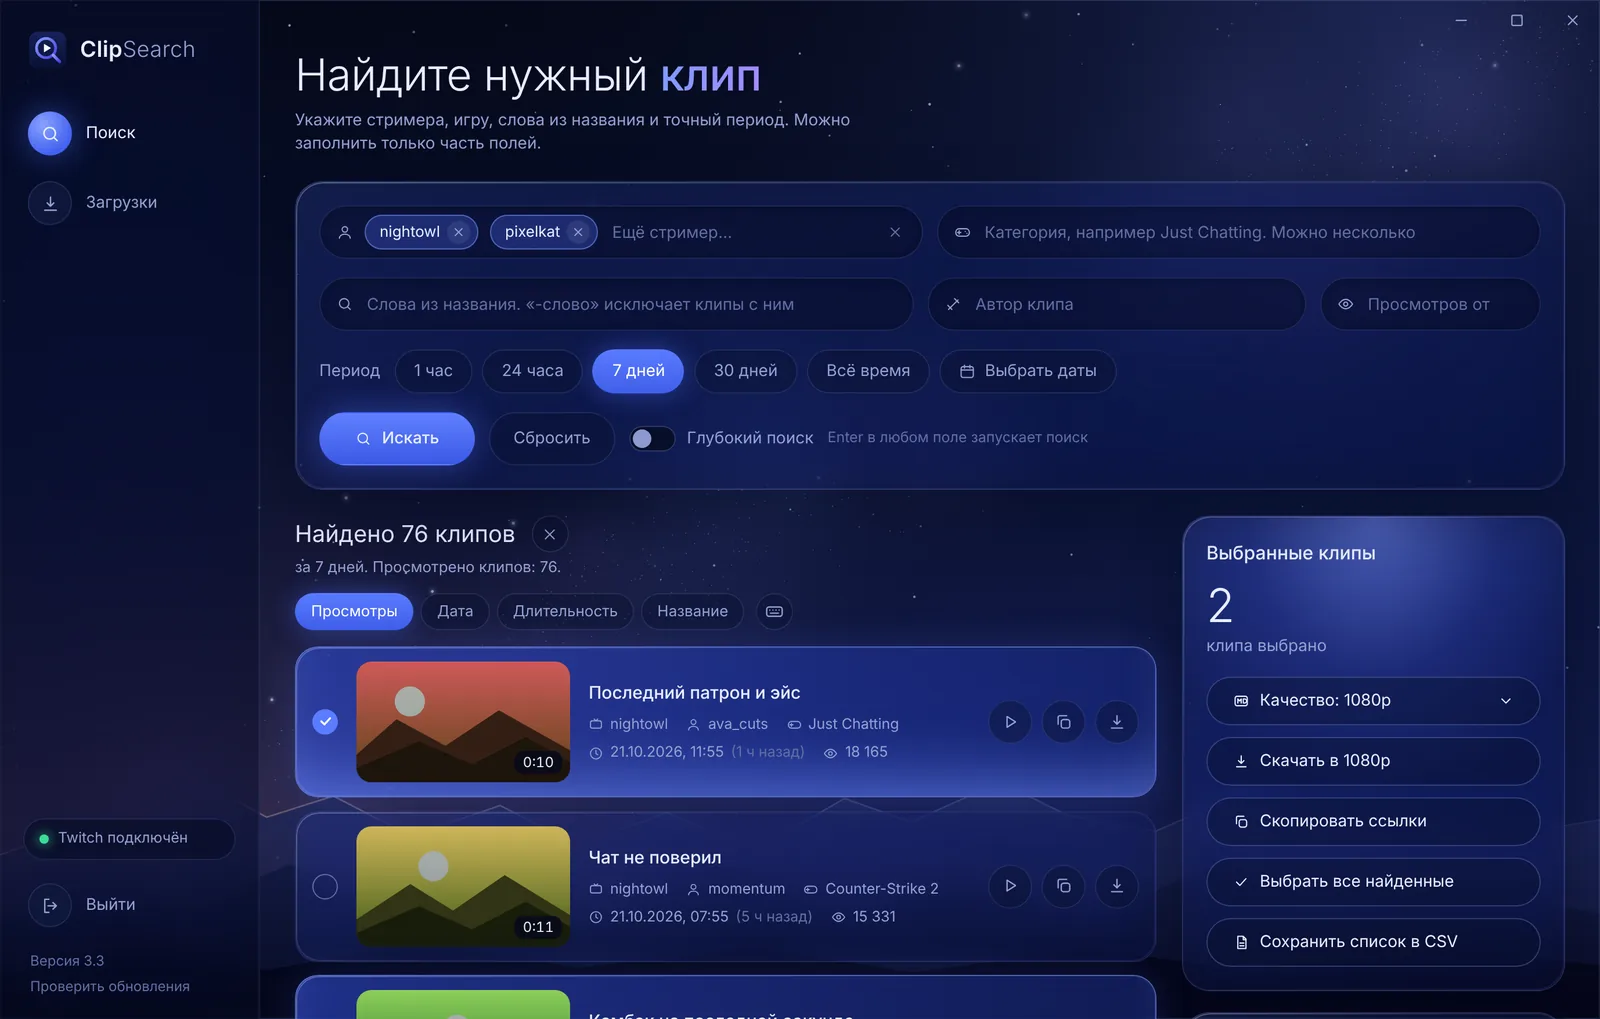
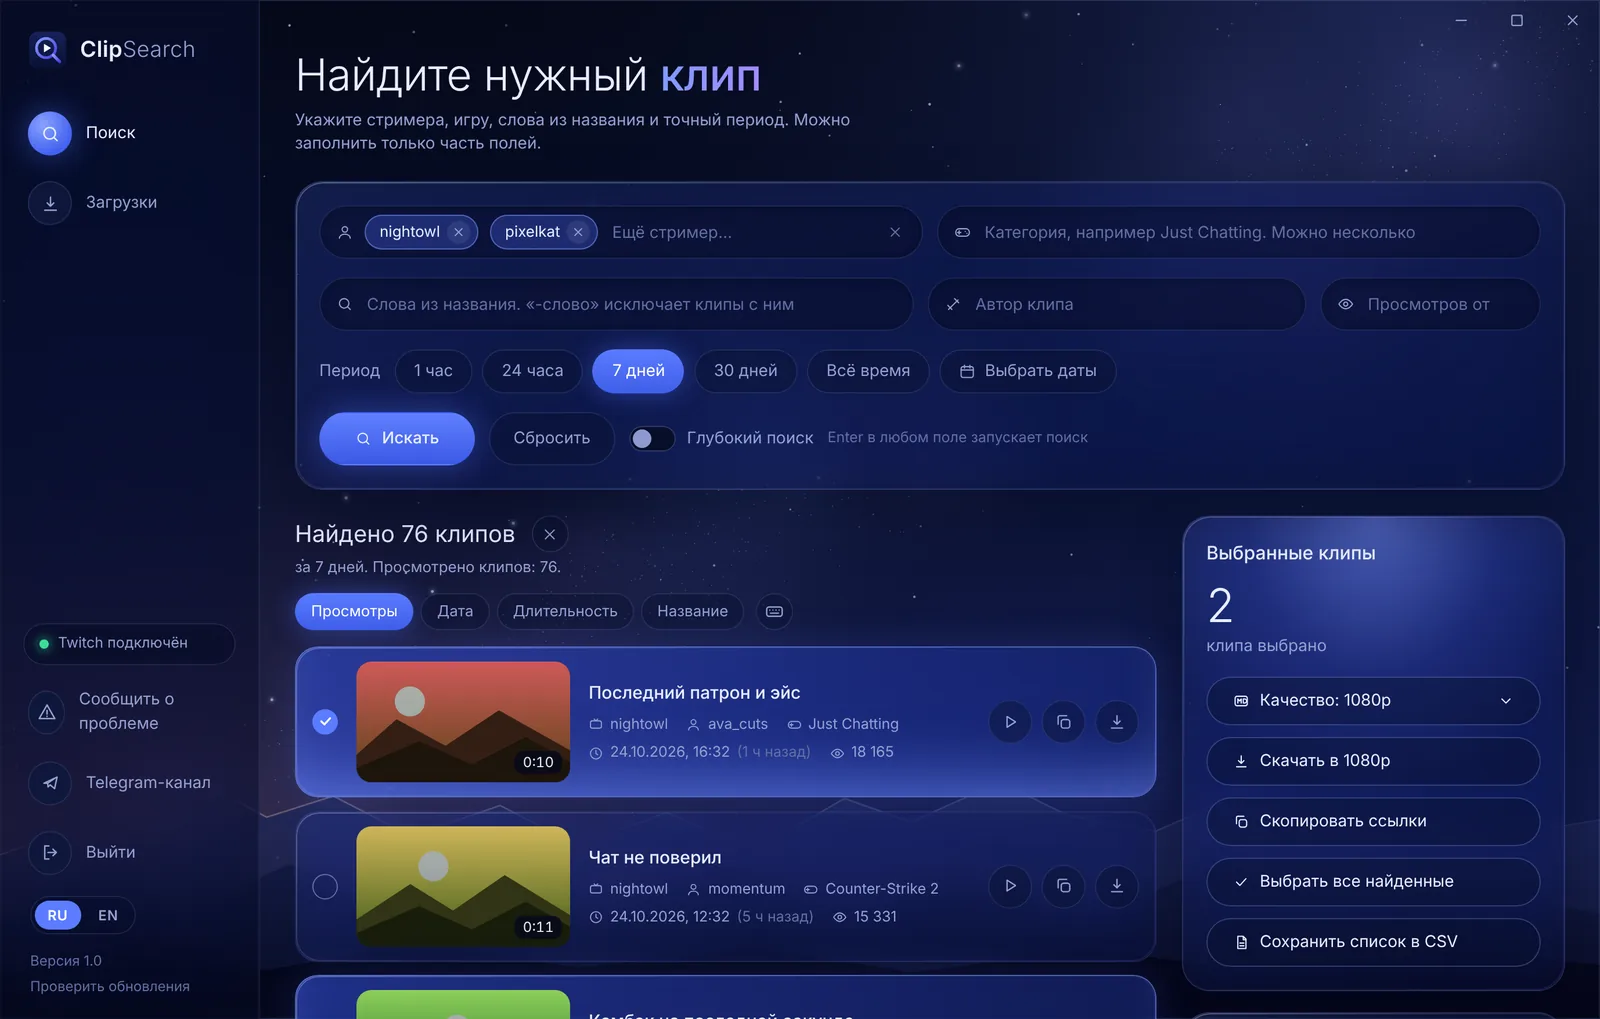
Website: English screenshot on the English page, version 1.0 screenshots

diff --git a/site/en/index.html b/site/en/index.html
@@ -13,7 +13,7 @@
 <meta property="og:title" content="ClipSearch — search and download Twitch clips">
 <meta property="og:description" content="Find a Twitch clip in a minute and download it in 1080p. Free, no sign-in.">
 <meta property="og:url" content="https://clip-search.com/en/">
-<meta property="og:image" content="https://clip-search.com/og.jpg">
+<meta property="og:image" content="https://clip-search.com/og-en.jpg">
 <meta name="twitter:card" content="summary_large_image">
 <meta name="theme-color" content="#070b1f">
 <link rel="icon" href="../logo.svg" type="image/svg+xml">
@@ -476,7 +476,7 @@ footer a { color: var(--muted); }
     </div>
     <div class="stage">
       <div class="win" id="win">
-        <img src="../shot.webp" alt="ClipSearch window: 76 clips found for two streamers over 7 days, two clips selected for download in 1080p" width="1600" height="1019" loading="lazy">
+        <img src="../shot-en.webp" alt="ClipSearch window: 76 clips found for two streamers over 7 days, two clips selected for download in 1080p" width="1600" height="1019" loading="lazy">
         <div class="shine"></div>
       </div>
     </div>
